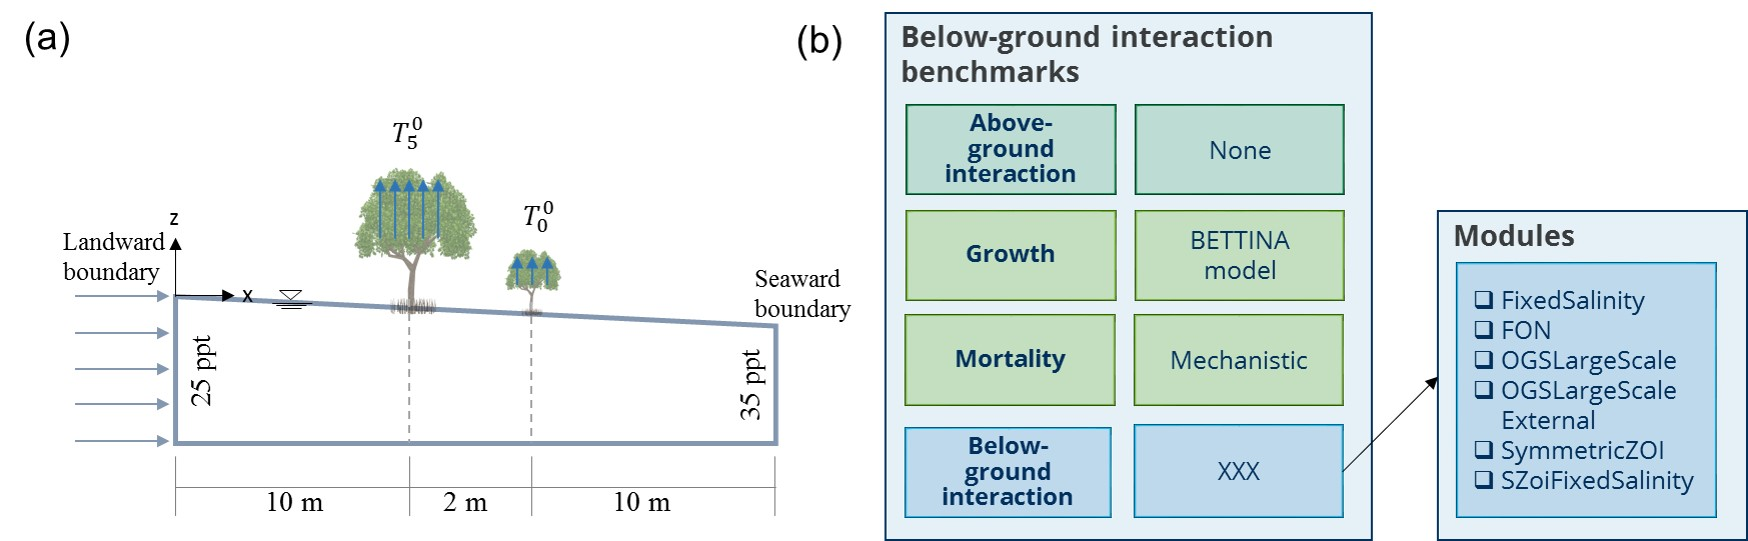
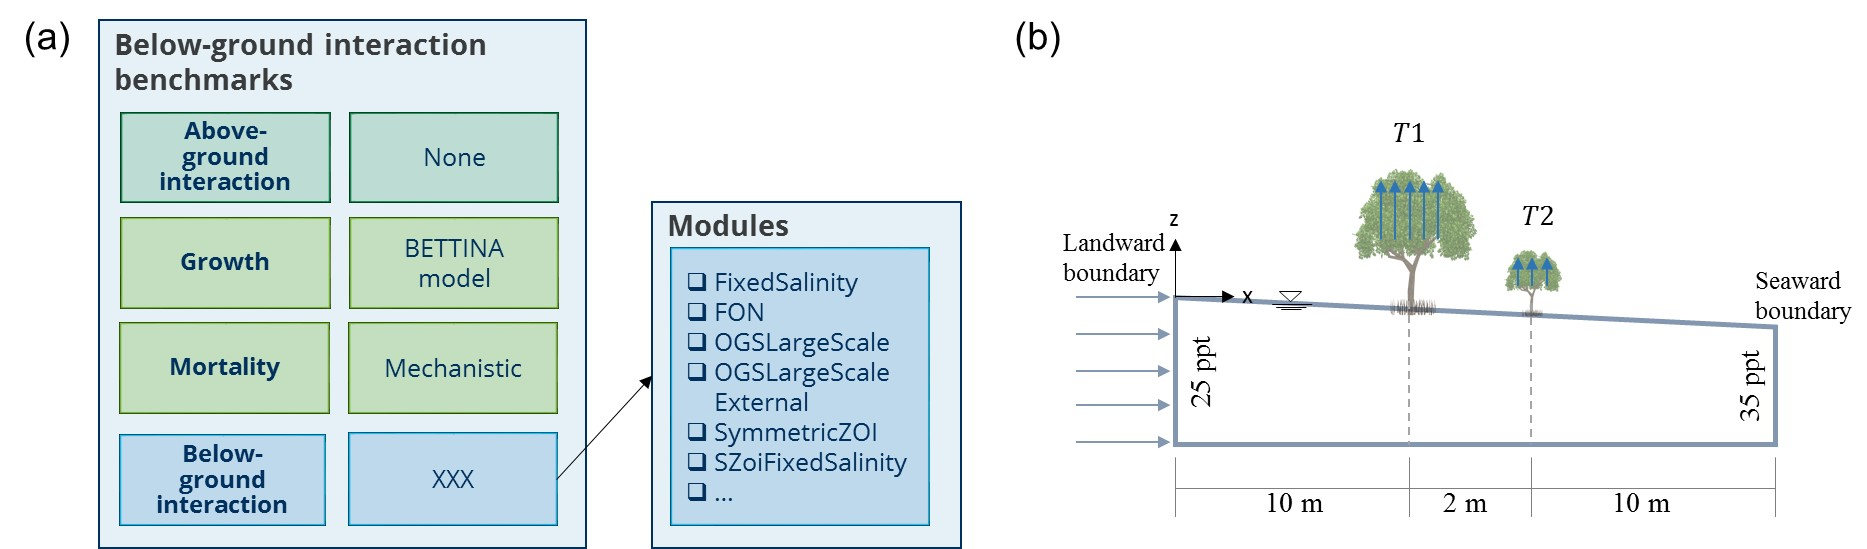
[www] revise benchmark definition

diff --git a/web/content/en/docs/Benchmarks/_index.md b/web/content/en/docs/Benchmarks/_index.md
@@ -12,68 +12,98 @@ In the following we explain the benchmark structure.
 
 As a reference we define a MANGA standard tree, which is an individual BETTINA tree, growing without competition or resource limitation (<a href="/docs/Benchmarks/#Figure_1">Figure 1a</a>).
 The output metrics of each benchmark are the tree geometry parameters, i.e. stem height, crown, root and stem radius (<a href="/docs/Benchmarks/#Figure_1">Figure 1b</a>).
-
+Additional outputs relevant for the tested module might be specified.
 
 <figure class="alert">
     <img id="Figure_1" src="/pictures/benchmarks/reference_tree.jpg">
     <figcaption>
-        <i><strong>Figure 1:</strong> (a) Module combination to create the MANGA reference tree (T<sup>0</sup>). (b) Geometry of T<sup>0</sup> over time.</i>
+        <i><br><strong>Figure 1:</strong> (a) Module combination to create the MANGA reference tree (T<sup>0</sup>). (b) Geometry of T<sup>0</sup> over time.</i>
     </figcaption>
 </figure><p>
 
-The general structure of each benchmark is a 2-tree setup, without recruitment (<a href="/docs/Benchmarks/#Figure_2">Figure 2a</a>).
+Benchmarks are classified based on the compartment of the module tested, i.e. below-ground interaction, above-ground interaction and tree mortality (for now tree growth is always simulated using the BETTINA approach). 
+Modules of the other compartments are defined as for the reference tree  (<a href="/docs/Benchmarks/#Figure_2">Figure 2a</a>). 
+This means, for example, to test the below-ground module ‘FixedSalinity’, above-ground interaction is disabled (SimpleTest).
+
+The general structure of each benchmark is a 2-tree setup, without recruitment (<a href="/docs/Benchmarks/#Figure_2">Figure 2b</a>).
 The trees are placed centered in a 22x22 m model domain with a fixed distance of 2 m. 
-The initialization of those trees is based on the reference tree. 
-The tree on the left is initialized with the geometry of the 5-year-old reference tree while the other tree is initialized as a seedling (0-year reference tree, see ‘Benchmarks/ModuleTests/Standard/initial_population.csv’). 
-Time step length is 1e6 seconds (~12 days) and simulation time is 300 years. Each benchmark has a short version with only 2 time steps used in the automatic test of MANGA (starting at 5e9 seconds simulation time). 
+The initialization of those trees is based on the geometry of the reference tree. 
+The initial population is designed in a way that the respective geometry triggers a potentially critical situation of the concept. 
+In some below-ground modules, this is for example the case, when the root systems of the trees overlap.
+Thus, we defined an initial population for each compartment ([Table_1](#Table_1)). 
+Each initial population is stored in ‘Benchmarks/ModuleTests/<compartment>/’.
+
+<a name="Table_1"></a> _**Table 1** Initial population based on reference tree._
+
+| Compartment | Tree              | Year  | r_stem | h_stem | r_crown | r_root |
+|--------------|-------------------|-------|--------|--------|---------|--------|
+| Above-ground | T1 | 14.1  | 0.06   | 4.51   | 1.5     | 0.93   |
+| Above-ground | T2 | 3.33  | 0.01   | 1.98   | 0.5     | 0.31   |
+| Below-ground | T1 | 26.68 | 0.11   | 5.97   | 2.43    | 1.5    |
+| Below-ground | T2 | 6.59  | 0.02   | 3.04   | 0.81    | 0.5    |
+
+
 If land- and seaward boundary conditions need to be defined in a setup, salinity is set to 25 ppt at the landward boundary and to 35 ppt at the seaward boundary. 
 Random seed of all setups is 643879.
 
-Benchmarks are classified based on the compartment of the module tested, i.e. below-ground interaction, above-ground interaction and tree mortality (for now tree growth is always simulated using the BETTINA approach). 
-Modules of the other compartments are defined as for the reference tree  (<a href="/docs/Benchmarks/#Figure_2">Figure 2b</a>). 
-This means, for example, to test the below-ground module ‘FixedSalinity’, above-ground interaction is disabled (SimpleTest).
+
+Time step length is 1e6 seconds (~12 days) and simulation time is 5e8 secs (~ 15.8 years, i.e. 500 time steps).
+Output is written after the first and last time step. 
+The first is used for automatic testing.
 
 <figure class="alert">
      <img id="Figure_2" src="/pictures/benchmarks/basic_setup.jpg">
      <figcaption>
-        <i><b>Figure 2:</b> (a) Schematic representation of benchmark setup (based on Bathmann et al. 2020). (b) Overview below-ground interaction setups.</i>
+        <i><br><strong>Figure 2:</strong> (a) Overview below-ground interaction setups. (b) Schematic representation of benchmark setup (based on Bathmann et al. 2020).</i>
      </figcaption>
 </figure>
 
 The following files must be provided for each benchmark
--	Full benchmark  
-     + MANGA project file  
-     + Results csv file (output every 10th time step)
-     + Optional: other files required to run the setup, e.g. OGS project file 
--	Short benchmark  
-     + MANGA project file
-     + Initial population (based on geometry in 5e9 s full benchmark)
-     + Results csv file 
+- MANGA project file
+- Results csv file (`<output_times> [2e6, 5e8] </output_times>`)
+- All files required to run the setup, e.g. OGS project file (if applicable)
  
-Naming convention
--	Folder to store benchmark: name of tested module
--	File names
-     + full setup: \"below_above_growth_mortality"
-     + short setup: \"name-full-setup_short"
+The files are stored in 'Benchmarks/ModuleBenchmarks/' with the name of the module tested.
 
 ## Overview existing benchmarks
 
-### Non-network modules (tested with SimpleBettina)
+### Modules tested with SimpleBettina
 
 | Below-ground | Above-ground | Mortality |
 | --- | --- |:----------------------------------------------------------- |  
-| &#x2610; FixedSalinity            | &#x2610; AZOI | &#x2610; Random |
+| &#x2611; FixedSalinity            | &#x2611; SimpleAsymmetricZOI | &#x2610; Random |
 | &#x2610; FON                      |               | &#x2610; RandomGrowth|
 | &#x2610; OGSLargeScale            |               | &#x2610; Memory |
-| &#x2610; OGSLargeScale External   |               |  |
-| &#x2610; SymmetricZOI             |               |  |
-| &#x2610; SZoiFixedSalinity        |               |  |
+| &#x2610; OGSLargeScaleExternal   |               |  |
+| &#x2611; SymmetricZOI             |               |  |
+| &#x2611; SZoiFixedSalinity        |               |  |
 
-### Network modules (tested with NetworkBettina)
+### Modules tested with NetworkBettina
+
+Network modules enable the formation of groups, representing root grafted trees.
+Grafted trees can exchange water, based on the water potential gradient between them.
+
+The module describing the group formation as well as the water exchange is 'SimpleNetwork'.
+All other below-ground network modules are children of this module and one or two other existing below-ground modules allowing for example the definition of a salinity gradient ('NetworkFixedSalinity').
+Network below-ground modules must be combined with the growth module 'NetworkBettina' which is based on 'SimpleBettina' but describes resource allocation to form the root graft.
+
 
 | Below-ground | 
 | --- | 
-| &#x2610; SimpleNetwork            | 
-| &#x2610; NetworkFixedSalinity     | 
+| &#x2611; SimpleNetwork            | 
+| &#x2611; NetworkFixedSalinity     | 
 | &#x2610; NetworkOGSLargeScale     | 
-| &#x2610; NetworkOGSLargeScale External    |  
+| &#x2610; NetworkOGSLargeScaleExternal    |  
+
+
+### Modules tested with SimpleKiwi
+
+With SimpleKiwi, below- and above-ground modules that depend on tree geometries (i.e. crown and root radius) do not need to be tested.
+
+| Below-ground | 
+| --- | 
+| &#x2610; FixedSalinity            |  
+| &#x2610; FON                      |  
+| &#x2610; OGSLargeScale            | 
+| &#x2610; OGSLargeScaleExternal    |
+
